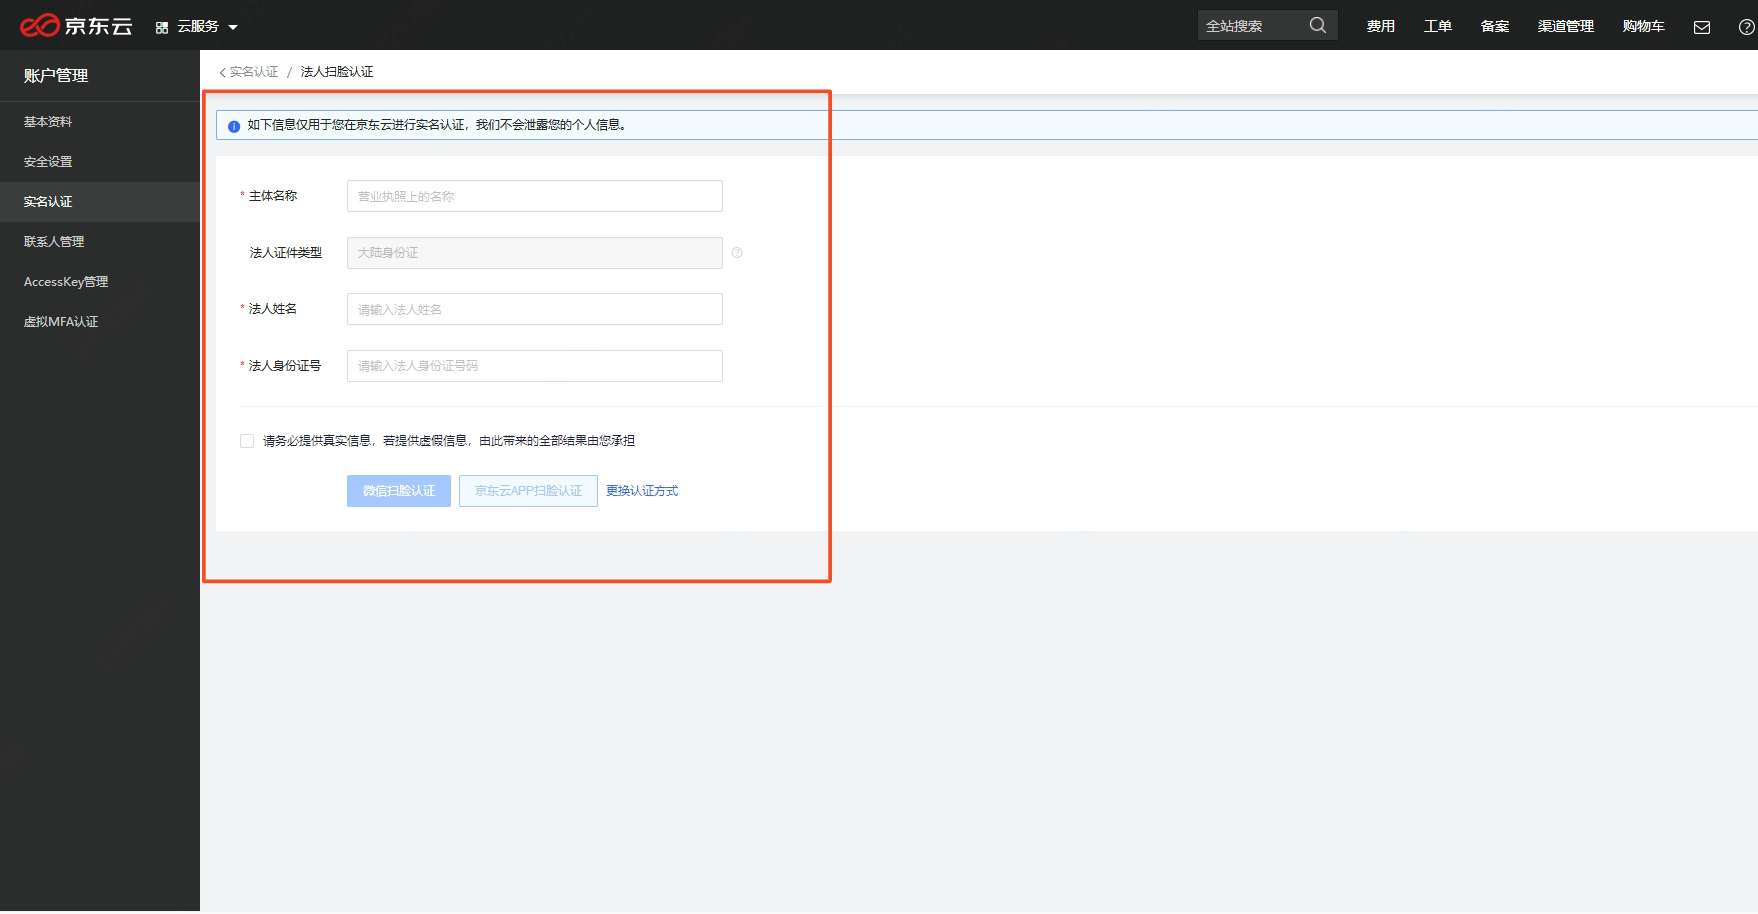
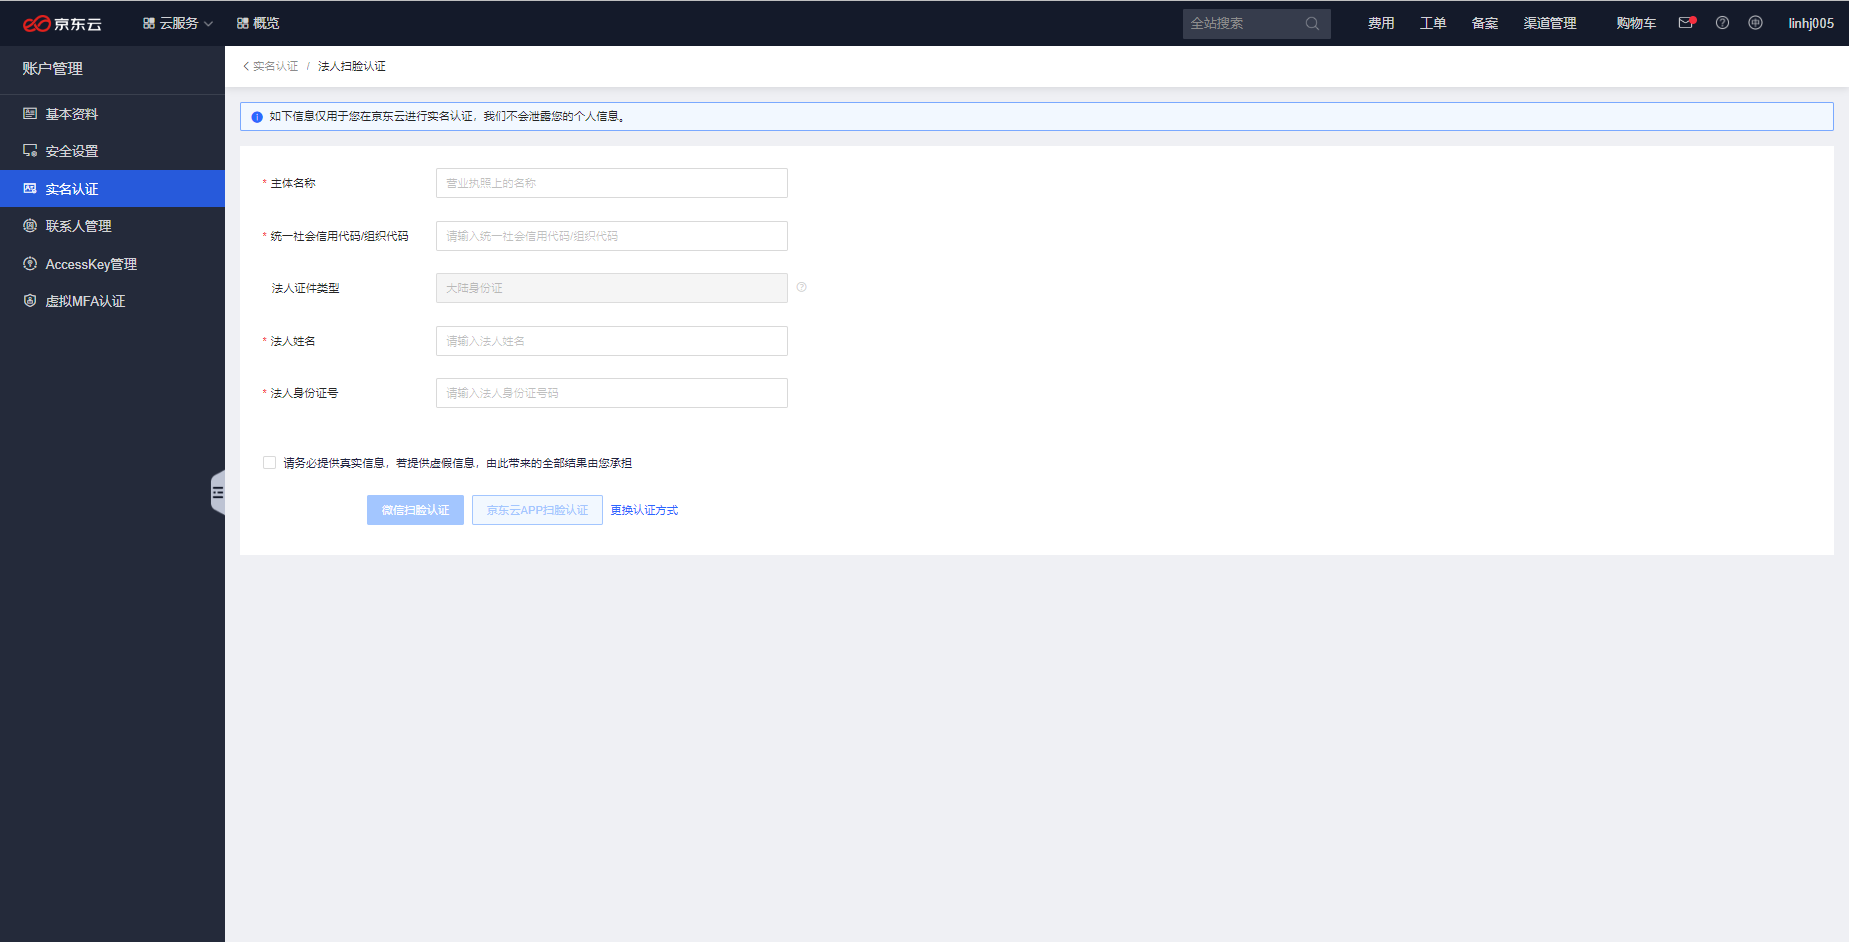
以最新的线上为依据，修改实名认证文档。

Changed region(s): [[0.0, 0.0, 1.0, 1.0], [0.1536, 0.4595, 0.3993, 0.5821], [0.215, 0.3982, 0.3072, 0.4289]]

diff --git a/documentation/User-Service/Real-Name-Verification/Business/Aptitude.md b/documentation/User-Service/Real-Name-Verification/Business/Aptitude.md
@@ -1,30 +1,33 @@
-## **个体工商户-工商资质认证**
+## **工商资质认证**
 
-[京东云企业认证](https://realname.jdcloud.com/account/verify)支持个体工商户进行工商资质认证。
-如果您的账号已经在[京东金融企业站](https://biz.jd.com/)完成了企业实名认证，您也可以在京东云页面完成认证状态的一键同步。
+[京东云企业认证](https://realname.jdcloud.com/account/verify)支持工商资质认证。如果您的账号已经在[京东金融企业站](https://biz.jd.com/)完成了企业实名认证，您也可以在京东云页面完成认证状态的一键同步。
 
 ### 认证步骤
 
-对公账户打款认证主要分为以下四个步骤：
+工商资质认证主要分为以下四个步骤：
 
-1.	选择认证方式 - 对公账户打款认证
-2.	填写企业名称、对公账户信息，核对无误后提交
-3.	企业信息审核通过后，完成对公账户转账金额验证
-4.	企业实名认证通过
+1.	上传营业执照信息
+2.	上传法人证件信息
+3.	上传被授权人证件信息
+4.	上传授权委托书
 
 注：按照国务院登记制度改革意见及各省市加快推进 “五证合一、一照一码” 登记制度改革的相关要求，各类市场主体需在2017年12月31日之前，完成 “统一社会信用代码” 营业执照换发工作。2018年1月1日起，未换发的证照将失去效用，市场主体将变成无证经营。因此，京东云当前仅支持用户使用加载了统一社会信用代码的营业执照完成企业实名认证。
 
 **1. 选择主体类型**
 
-进入[实名认证](https://realname.jdcloud.com/account/verify)页面，选择个体工商户-工商资质认证
+进入[实名认证](https://realname.jdcloud.com/account/verify)页面，选择企业认证-工商资质认证
 
 ![commerce1](../../../../image/User/newnewrealname/commerce1.png)
 
 **2. 填写证件信息**
 
-在此处，您需要补充营业执照、法人证件、被授权人证件（如有）、授权委托书（如有）的信息，并上传相应的证件照片。
+在此处，您需要补充营业执照、法人证件、被授权人证件、授权委托书的信息，并上传相应的证件照片。
 
-![commerce2](../../../../image/User/newnewrealname/commerce2.png)
+![](../../../../image/User/newnewrealname/aptitude1.png)
+
+![](../../../../image/User/newnewrealname/aptitude2.png)
+
+![](../../../../image/User/newnewrealname/aptitude4.png)
 
 注：上传证件图片要求如下
 
@@ -37,23 +40,23 @@
 点击“下一步”，再次确认确认企业信息无误后点击“提交”。
 
 ![commerce3](../../../../image/User/newnewrealname/commerce3.png)
- 
+
 **4. 资料提交审核**
 
 企业信息提交审核后，系统将在 1 ~ 10 分钟内完成企业信息审核。
 
 ![commerce4](../../../../image/User/newnewrealname/commerce4.png)
- 
+
 **5.	审核通过**
 
 证件信息系统核对无误后，认证通过。
 
 ![commerce5](../../../../image/User/newnewrealname/commerce5.png)
- 
+
 **6.	审核不通过**
 
 证件信息不正确时会导致审核不通过，请您核对信息及证件照片后重新提交，或者更换认证方式。
 
 ![commerce6](../../../../image/User/newnewrealname/commerce6.png)
- 
+
 

diff --git a/documentation/User-Service/Real-Name-Verification/Personal/Face.md b/documentation/User-Service/Real-Name-Verification/Personal/Face.md
@@ -11,11 +11,11 @@
 1. 进入[实名认证](https://realname.jdcloud.com/account/verify)页面，在“个人认证”选项卡里点击“立即认证”。
 
 ![face1](../../../../image/User/newnewrealname/face1.png)
- 
+
 2. 如果系统检测到您的账号已经在京东商城/京东金融完成了个人实名认证，会自动弹出如下弹窗，您可以点击“立即授权”授权京东云获取您在京东商城/京东金融的实名信息。
 
 ![face2](../../../../image/User/newnewrealname/face2.png)
- 
+
 如果您的账号未在京东商城/京东金融完成个人实名认证或者您选择“暂不授权，手动认证”，则进入选择个人实名认证方式的页面，您可以选择“实名手机认证”或“扫脸认证”。
 
 3. 选择“扫脸认证”后，点击下一步，需要在如下页面填写您的姓名和身份证号。
@@ -25,7 +25,7 @@
 4. 姓名和身份证号验证无误，页面会展示如下二维码。
 
 ![face4](../../../../image/User/newnewrealname/face4.png)
- 
+
 5. 进行扫脸认证
 
 a. 使用京东云 App 扫脸认证
@@ -33,15 +33,16 @@ a. 使用京东云 App 扫脸认证
 点击京东云APP扫脸认证。下载京东云 App，使用 App 的控制台左上角的“扫一扫”功能扫描生成的二维码，完成您人脸信息的核验。
 
 ![face5](../../../../image/User/newnewrealname/face5.png)
- 
+
 b. 使用微信扫脸认证
 
 点击微信扫脸认证。打开微信右上角的扫一扫功能，扫描生成的二维码，完成您人脸信息的核验。
 
 6. 扫脸校验通过后，个人实名认证完成，您可以在 PC 端查看实名认证详情。
 	
+
 ![face6](../../../../image/User/newnewrealname/face6.png)
- 
+
 ## 常见问题
 **问题：一个身份信息最多可认证几个京东云账号？**
 

diff --git a/documentation/User-Service/Real-Name-Verification/Business/Remit.md b/documentation/User-Service/Real-Name-Verification/Business/Remit.md
@@ -39,19 +39,19 @@
 企业信息提交审核后，系统将在 1 ~ 10 分钟内完成企业信息审核。
 
 ![remit4](../../../../image/User/newnewrealname/remit4.png)
- 
+
 **5. 资料审核通过，打款验证**
 
 企业信息审核通过后，系统会向您提交的企业银行对公账户进行一笔小金额转账。请联系您的对公账户管理员，通过银行柜台、网上银行、手机银行等方式获取，并在京东云页面输入转账金额完成认证流程。根据不同银行的到账情况，转账时间可能需要1 ~ 30 分钟不等。
 
 ![remit5](../../../../image/User/newnewrealname/remit5.png)
- 
+
 注：企业名称与对公账户信息不符时，银行转账失败，实名认证申请将被驳回，请修改您的对公账户信息并重新提交审核。
- 
+
 **6. 打款金额正确，企业实名通过**
- 
+
 ![remit6](../../../../image/User/newnewrealname/remit6.png)
- 
+
 注：对公打款金额连续验证5次失败后，实名认证流程将被冻结两小时。请于两小时后确认对公账户信息并重新提交申请。
- 
+
 

diff --git a/documentation/User-Service/Real-Name-Verification/Business/Update.md b/documentation/User-Service/Real-Name-Verification/Business/Update.md
@@ -17,7 +17,7 @@
 
 如果您已完成企业实名认证，且近一个月内没有进行过实名更新，则您可以发起实名更新。在实名认证页面点击 “立即更新”：
 
-![](../../../../image/User/newrealname/14%E8%AE%A4%E8%AF%81%E9%80%9A%E8%BF%87.png)
+![](../../../../image/User/newnewrealname/update1.png)
 
 注：如果您的账号在一个月内有过企业实名认证成功或者更新实名成功的记录，则实名通过后的一个月内无法进行变更，请于限制操作日期之后重试。
 
@@ -25,8 +25,8 @@
 
 **2. 确认知晓并同意变更须知**
 
-![](../../../../image/User/newrealname/15%E6%9B%B4%E6%96%B0%E9%A1%BB%E7%9F%A5.png)
- 
+![](../../../../image/User/newnewrealname/update3.png)
+
 **3. 按照页面操作完成更新流程**
 
 填写企业信息、完成对公打款确认实名更新。详见：[对公账户打款认证](../../../../documentation/User-Service/Real-Name-Verification/Business/Remit.md)

diff --git a/documentation/User-Service/Real-Name-Verification/Business/Legal.md b/documentation/User-Service/Real-Name-Verification/Business/Legal.md
@@ -18,20 +18,20 @@
 进入[实名认证](https://realname.jdcloud.com/account/verify)页面，选择企业认证-法人扫脸认证。
 
 ![cface1](../../../../image/User/newnewrealname/cface1.png)
- 
+
 **2. 填写企业名称和法人信息**
 
 请输入您营业执照上的主体名称、法人姓名、法人身份证号。
- 
+
 ![cface2](../../../../image/User/newnewrealname/cface2.png)
- 
+
 **3. 进行扫脸认证**
 
 a. 使用京东云 App 扫脸认证
 点击京东云APP扫脸认证。下载京东云 App，使用 App 的控制台左上角的“扫一扫”功能扫描生成的二维码，完成您人脸信息的核验。
 
 ![cface3](../../../../image/User/newnewrealname/cface3.png)
- 
+
 **b. 使用微信扫脸认证**
 
 点击微信扫脸认证。打开微信右上角的扫一扫功能，扫描生成的二维码，完成您人脸信息的核验。

diff --git a/documentation/User-Service/Real-Name-Verification/Personal/Phone.md b/documentation/User-Service/Real-Name-Verification/Personal/Phone.md
@@ -14,16 +14,16 @@
 
 2.	如果系统检测到您的账号已经在京东商城/京东金融完成了个人实名认证，会自动弹出如下弹窗，您可以点击“立即授权”授权京东云获取您在京东商城/京东金融的实名信息。
 
-![face2](../../../../image/User/newnewrealname/phone2.png)
- 
+![face2](../../../../image/User/newnewrealname/face2.png)
+
 如果您的账号未在京东商城/京东金融完成个人实名认证或者您选择“暂不授权，手动认证”，则进入选择个人实名认证方式的页面，您可以选择“实名手机认证”或“扫脸认证”。
 
 
- 
+
 4.	信息验证无误，账号通过了个人实名认证。
 
 ![face4](../../../../image/User/newnewrealname/phone4.png)
- 
+
 ### 常见问题
 
 **问题：一个身份信息最多可认证几个京东云账号？**

diff --git a/documentation/User-Service/Real-Name-Verification/Personal/jdscan.md b/documentation/User-Service/Real-Name-Verification/Personal/jdscan.md
@@ -10,7 +10,7 @@
 
 1. 进入实名认证页面，在”个人认证”选项卡里点击“京东/京东金融APP扫码认证”，系统生成二维码，用户使用京东/京东金融APP进行扫码。
 
-![](../../../../image/Real-name-Authentication/1.png)
+![](../../../../image/User/newnewrealname/jdscan1.png)
 ![](../../../../image/Real-name-Authentication/2.png)
 
 2.	用户使用京东/京东金融APP扫描二维码，如果系统检测到您的账号已经在京东商城/京东金融完成了个人实名认证，页面跳转授权页面，勾选”同意京东云读取您的身份信息完成个人实名”协议，点击“确定”完成京APP授权实名，授权京东云获取您在京东商城/京东金融的实名信息。
